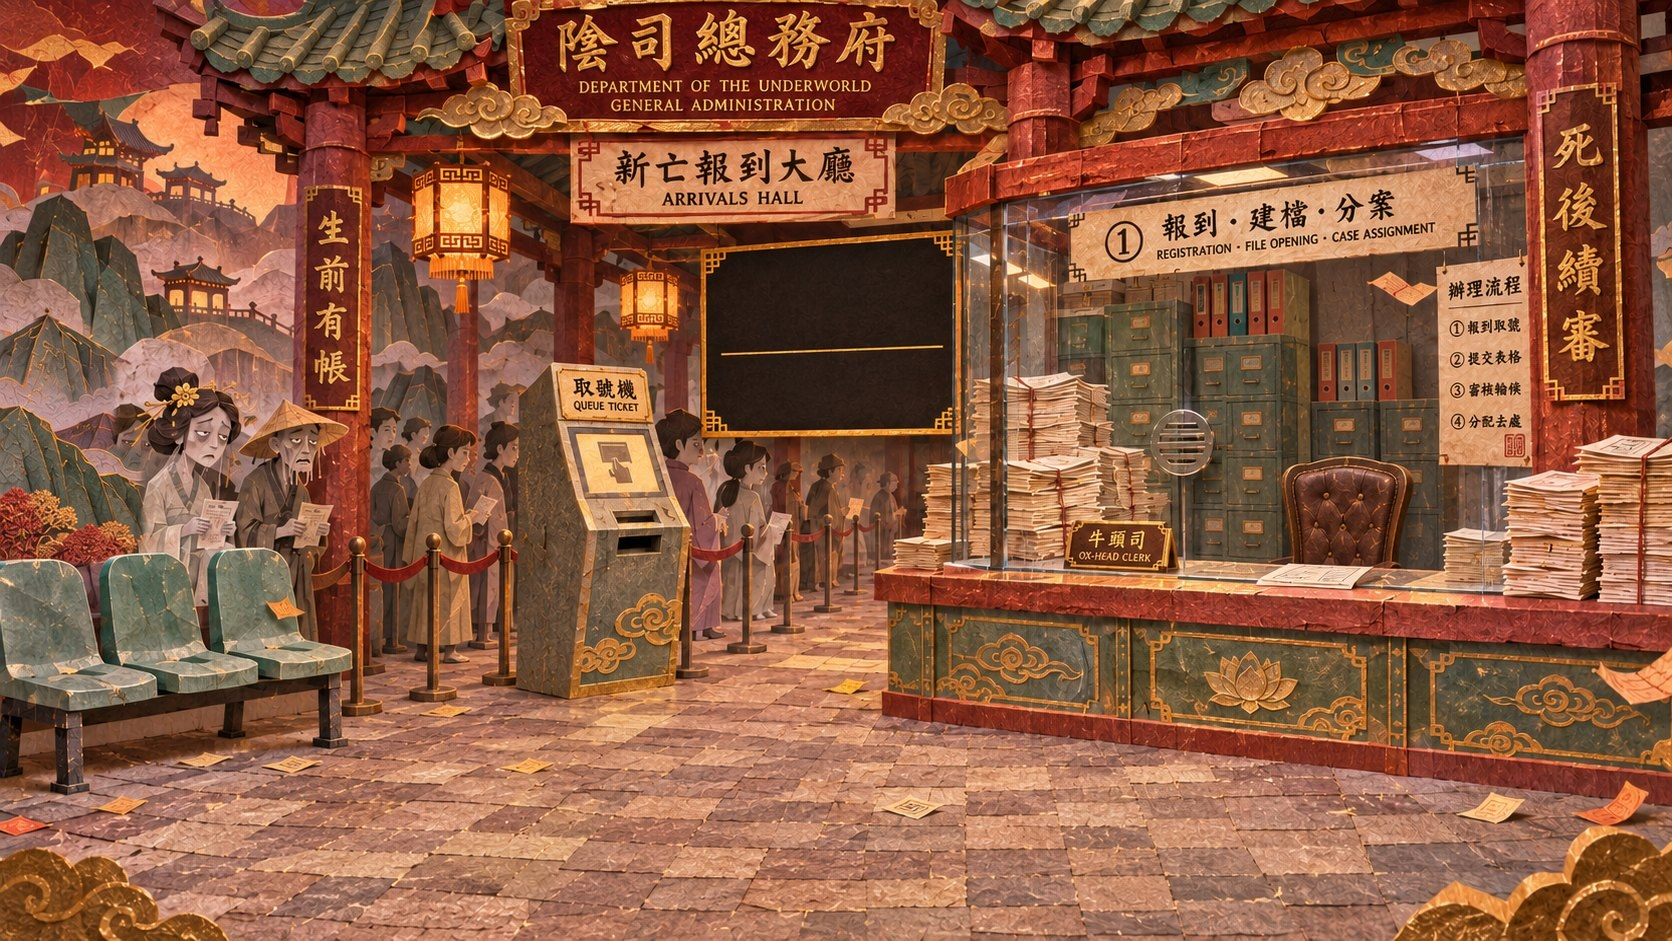
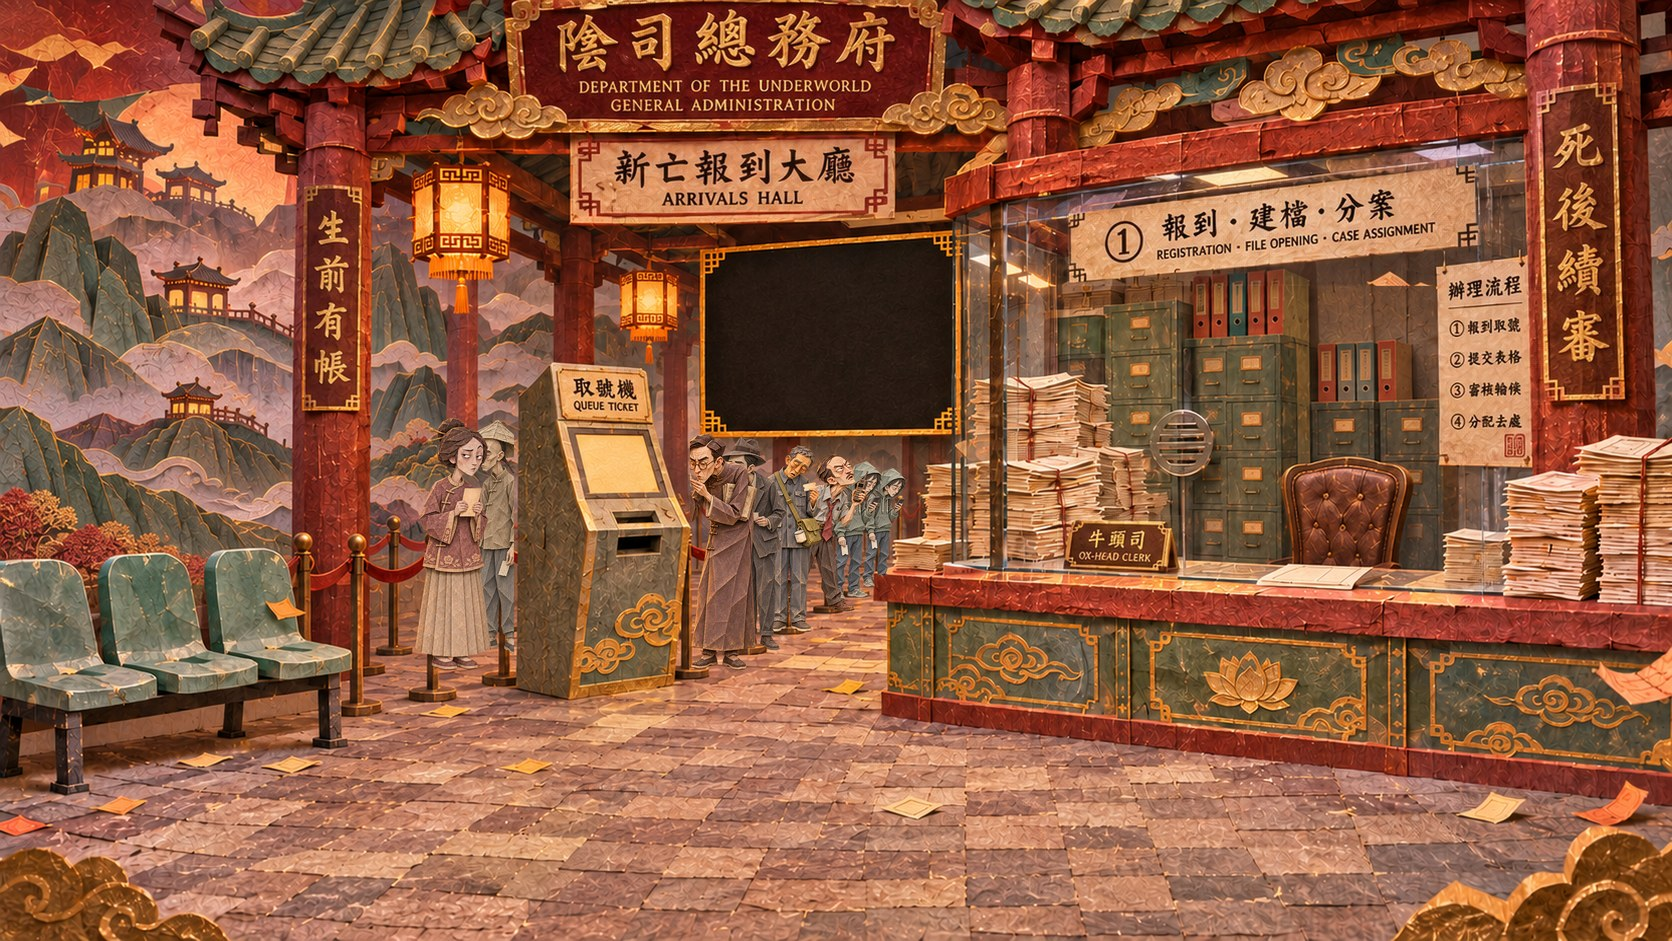
Qing-era Uncle Kwai and a queue of souls across the eras

diff --git a/index.html b/index.html
@@ -385,18 +385,18 @@ function setProps(p){
 /* ---------- the other characters: a body, a set of heads, and arm pieces that are swapped to change pose ---------- */
 // x, y: where the body's top-left sits. h*: the head. arms: each piece as [x, y, w, h] from the body. poses: which pieces show.
 const NPCS = {
-  kwai: {"room": "hall", "x": 40, "y": 467, "bw": 118, "bh": 268, "hx": 35, "hy": -109, "hw": 81, "hh": 150, "hrot": 0, "hpx": 22, "hpy": 124, "clip": null, "faces": ["neutral", "talk", "blink", "surprised", "pleased"], "idle": "default", "arms": {"armleft": [0, 19, 42, 128], "armright": [79, 21, 38, 123], "armrightthumb": [2, 27, 109, 73], "armsraised": [-22, -65, 161, 167], "armsunwrap": [-22, 12, 161, 106]}, "poses": {"default": ["armleft", "armright"], "thumb": ["armleft", "armrightthumb"], "raised": ["armsraised"], "unwrap": ["armsunwrap"]}, "pivots": {"left": [32, 34], "right": [87, 34]}, "beard": true},
+  kwai: {"room": "hall", "x": 38, "y": 445, "bw": 122, "bh": 290, "hx": 26, "hy": -100, "hw": 69, "hh": 128, "beard": true, "hrot": 0, "hpx": 35, "hpy": 116, "clip": null, "faces": ["neutral", "talk", "blink", "surprised", "pleased"], "idle": "default", "arms": {"armleft": [12, 9, 29, 155], "armright": [82, 8, 28, 173], "armrightthumb": [-2, 5, 102, 55], "armsraised": [-32, -82, 186, 104], "armsunwrap": [21, 12, 84, 71]}, "poses": {"default": ["armleft", "armright"], "thumb": ["armleft", "armrightthumb"], "raised": ["armsraised"], "unwrap": ["armsunwrap"]}, "pivots": {"left": [30, 14], "right": [93, 14]}, "queue": {"x": 35, "y": -50, "w": 7, "h": 197, "px": 3, "py": 2, "rot": -12, "sway": 4}},
   ox: {"room": "hall", "x": 1180, "y": 386, "bw": 320, "bh": 204, "hx": 73, "hy": -119, "hw": 238, "hh": 237, "hrot": -10, "hpx": 109, "hpy": 233, "clip": 592, "faces": ["neutral", "talk", "blink", "surprised", "pleased"], "idle": "default", "arms": {"armleft": [31, 138, 122, 48], "armright": [133, 2, 116, 182], "armleftgrip": [25, 132, 127, 50]}, "poses": {"default": ["armleft", "armright"], "grip": ["armleftgrip", "armright"]}, "pivots": {"left": [27, 155], "right": [292, 160]}},
   ma: {"room": "bank", "x": 1190, "y": 312, "bw": 201, "bh": 170, "hx": 45, "hy": -136, "hw": 133, "hh": 180, "hrot": 0, "hpx": 55, "hpy": 174, "clip": 486, "faces": ["neutral", "talk", "blink", "surprised", "pleased"], "idle": "default", "arms": {"armleft": [26, 95, 84, 47], "armright": [90, 95, 84, 47], "armrightstamp": [90, 80, 84, 79], "armleftlift": [26, 84, 84, 71]}, "poses": {"default": ["armleft", "armright"], "stamp": ["armleft", "armrightstamp"], "lift": ["armleftlift", "armright"]}, "pivots": {"left": [36, 116], "right": [165, 116]}},
   yuk: {"room": "depot", "x": 645, "y": 303, "bw": 180, "bh": 172, "hx": -5, "hy": -98, "hw": 173, "hh": 140, "hrot": 0, "hpx": 95, "hpy": 135, "clip": 466, "faces": ["neutral", "talk", "blink", "surprised", "pleased", "blow"], "idle": "hold", "arms": {"armleft": [28, 96, 71, 47], "armright": [86, 96, 71, 48], "clipboard": [81, 69, 72, 119], "armlefthold": [23, 94, 76, 62], "armrighthold": [81, 86, 76, 84], "armrightgive": [81, 95, 76, 61]}, "poses": {"default": ["armleft", "armright"], "hold": ["clipboard", "armlefthold", "armrighthold"], "give": ["armleft", "armrightgive"], "blow": ["armleft", "armright"]}, "pivots": {"left": [33, 117], "right": [148, 117]}}
 };
 const NP = {};
 // Change this whenever the character pictures change, so a phone or browser that kept an older copy fetches the new one.
-const AV = location.protocol === 'http:' ? '?v=20261125c' : '';
+const AV = location.protocol === 'http:' ? '?v=20261127a' : '';
 let talker = '', talkEnd = 0;                           // who is speaking, and when their mouth stops
 const talkTime = zh => Math.min(3600, Math.max(1200, zh.length * 100 + 500));   // about as long as it takes to say the line
 for (const id in NPCS) {
-  const c = NPCS[id], M = 8, parts = Object.values(c.arms);
+  const c = NPCS[id], M = 8, parts = Object.values(c.arms).concat(c.queue ? [[c.queue.x - 40, c.queue.y, c.queue.w + 80, c.queue.h]] : []);
   const minX = Math.min(0, c.hx, ...parts.map(a => a[0])), minY = Math.min(0, c.hy, ...parts.map(a => a[1]));
   const maxX = Math.max(c.bw, c.hx + c.hw, ...parts.map(a => a[0] + a[2])), maxY = Math.max(c.bh, ...parts.map(a => a[1] + a[3]));
   const left = c.x + minX - M, top = c.y + minY - M;
@@ -406,6 +406,8 @@ for (const id in NPCS) {
   const at = (el, x, y, w, h) => { el.style.cssText = `left:${x - minX + M}px;top:${y - minY + M}px;width:${w}px;height:${h}px`; return el; };
   const pic = name => { const i = new Image(); i.src = `assets/n_${id}_${name}.webp${AV}`; i.alt = ''; return i; };
   const bodyEl = nb.appendChild(at(pic('body'), 0, 0, c.bw, c.bh));
+  let qel = null;                                      // Uncle Kwai's braid hangs behind him from its top and sways
+  if (c.queue) { qel = at(pic('queue'), c.queue.x, c.queue.y, c.queue.w, c.queue.h); qel.style.transformOrigin = `${c.queue.px}px ${c.queue.py}px`; qel.style.transform = `rotate(${c.queue.rot}deg)`; nb.insertBefore(qel, bodyEl); }
   const nh = at(document.createElement('div'), c.hx, c.hy, c.hw, c.hh); nh.className = 'nh';
   nh.style.transformOrigin = `${c.hpx}px ${c.hpy}px`;
   const faces = {};
@@ -416,7 +418,6 @@ for (const id in NPCS) {
     nb.insertBefore(nh, bodyEl);
     nhf = at(document.createElement('div'), c.hx, c.hy, c.hw, c.hh); nhf.className = 'nh'; nhf.style.transformOrigin = nh.style.transformOrigin;
     bfaces = {}; c.faces.forEach(f => { bfaces[f] = nhf.appendChild(pic('b_' + f)); }); bfaces.neutral.className = 'on';
-    nb.appendChild(nhf);
   } else nb.appendChild(nh);
   const arms = {};
   for (const a in c.arms) {                            // arms go in front; each turns about its own shoulder
@@ -424,9 +425,10 @@ for (const id in NPCS) {
     arms[a] = nb.appendChild(at(pic(a), x, y, w, h)); arms[a].className = 'na';
     arms[a].style.transformOrigin = `${pv[0] - x}px ${pv[1] - y}px`; arms[a].style.visibility = 'hidden';
   }
+  if (nhf) nb.appendChild(nhf);                        // the beard goes on last, in front of the arms
   box.appendChild(nb);
   document.querySelector(`.room[data-room="${c.room}"] img`).after(box);
-  NP[id] = {c, nb, nh, nhf, faces, bfaces, arms, cur: 'neutral', pose: '', poseUntil: 0, blink: 2000 + Math.random() * 3000, mood: '', until: 0, ph: Math.random() * 6};
+  NP[id] = {c, nb, nh, nhf, qel, faces, bfaces, arms, cur: 'neutral', pose: '', poseUntil: 0, blink: 2000 + Math.random() * 3000, mood: '', until: 0, ph: Math.random() * 6};
   npcShow(id, c.idle);
 }
 function npcShow(id, pose){                            // swap the arm pieces to this pose
@@ -454,6 +456,7 @@ function npcTick(now){
     if (f !== n.cur) { n.faces[n.cur].className = ''; n.faces[f].className = 'on'; if (n.bfaces) { n.bfaces[n.cur].className = ''; n.bfaces[f].className = 'on'; } n.cur = f; }
     const sway = calm ? 0 : talking ? 2.2 * Math.sin(now / 95) : 1.1 * Math.sin(now / 1500 + n.ph);
     const rot = `rotate(${(n.c.hrot + sway * (n.c.hrot ? 0.35 : 1)).toFixed(2)}deg)`; n.nh.style.transform = rot; if (n.nhf) n.nhf.style.transform = rot;   // a head propped on a hand barely moves
+    if (n.qel && !calm) n.qel.style.transform = `rotate(${(n.c.queue.rot + n.c.queue.sway * Math.sin(now / 1300 + n.ph) + (talking ? 1.5 * Math.sin(now / 95) : 0)).toFixed(2)}deg)`;
     if (!calm) n.nb.style.transform = `translateY(${(1.6 * Math.sin(now / 1700 + n.ph) + 1.6).toFixed(2)}px)`;
   }
 }

diff --git a/sw.js b/sw.js
@@ -1,6 +1,6 @@
 /* Service worker: lets the game open and play with no network after the first visit.
    build_pwa.py fills in VERSION (a hash of every file) and PRECACHE. */
-const VERSION = '0784b93548';
+const VERSION = 'a339142f58';
 const PRECACHE = [
  "./",
  "index.html",
@@ -67,6 +67,7 @@ const PRECACHE = [
  "assets/n_kwai_body.webp",
  "assets/n_kwai_neutral.webp",
  "assets/n_kwai_pleased.webp",
+ "assets/n_kwai_queue.webp",
  "assets/n_kwai_surprised.webp",
  "assets/n_kwai_talk.webp",
  "assets/n_ma_armleft.webp",
